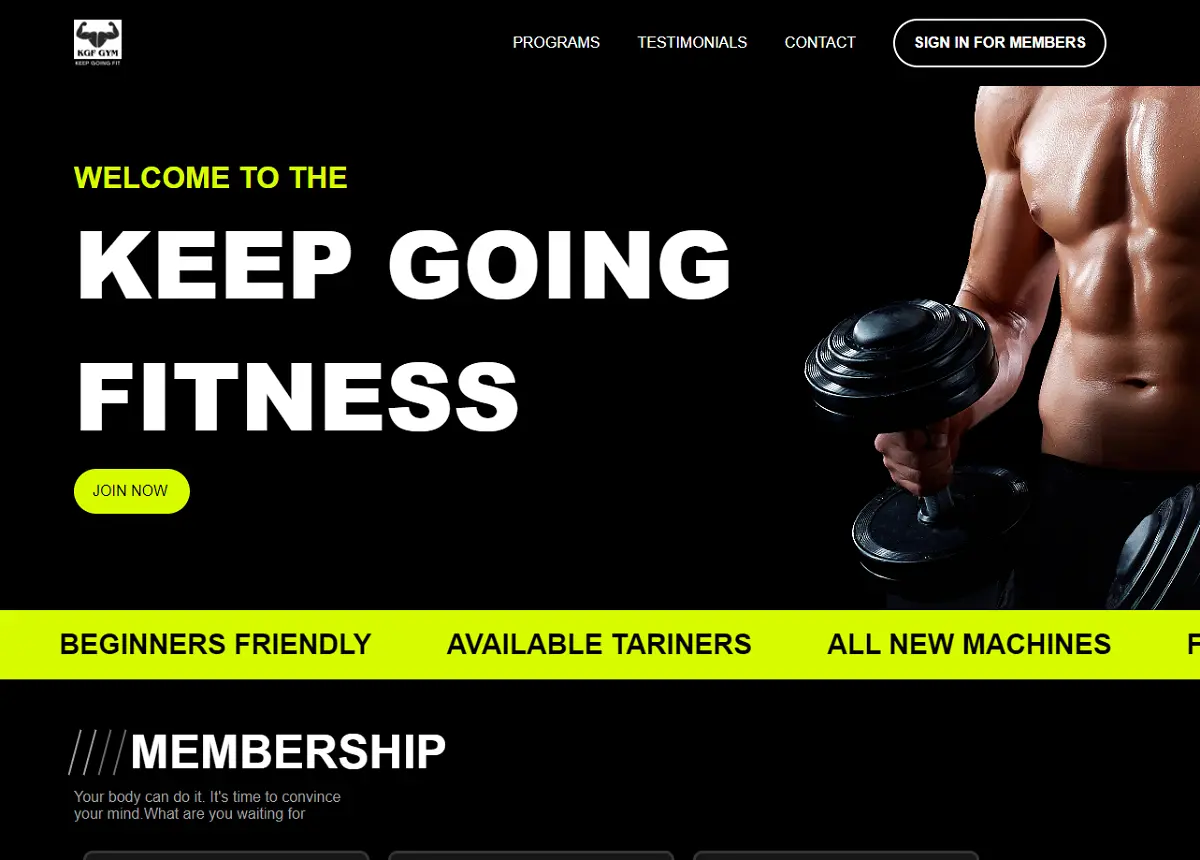
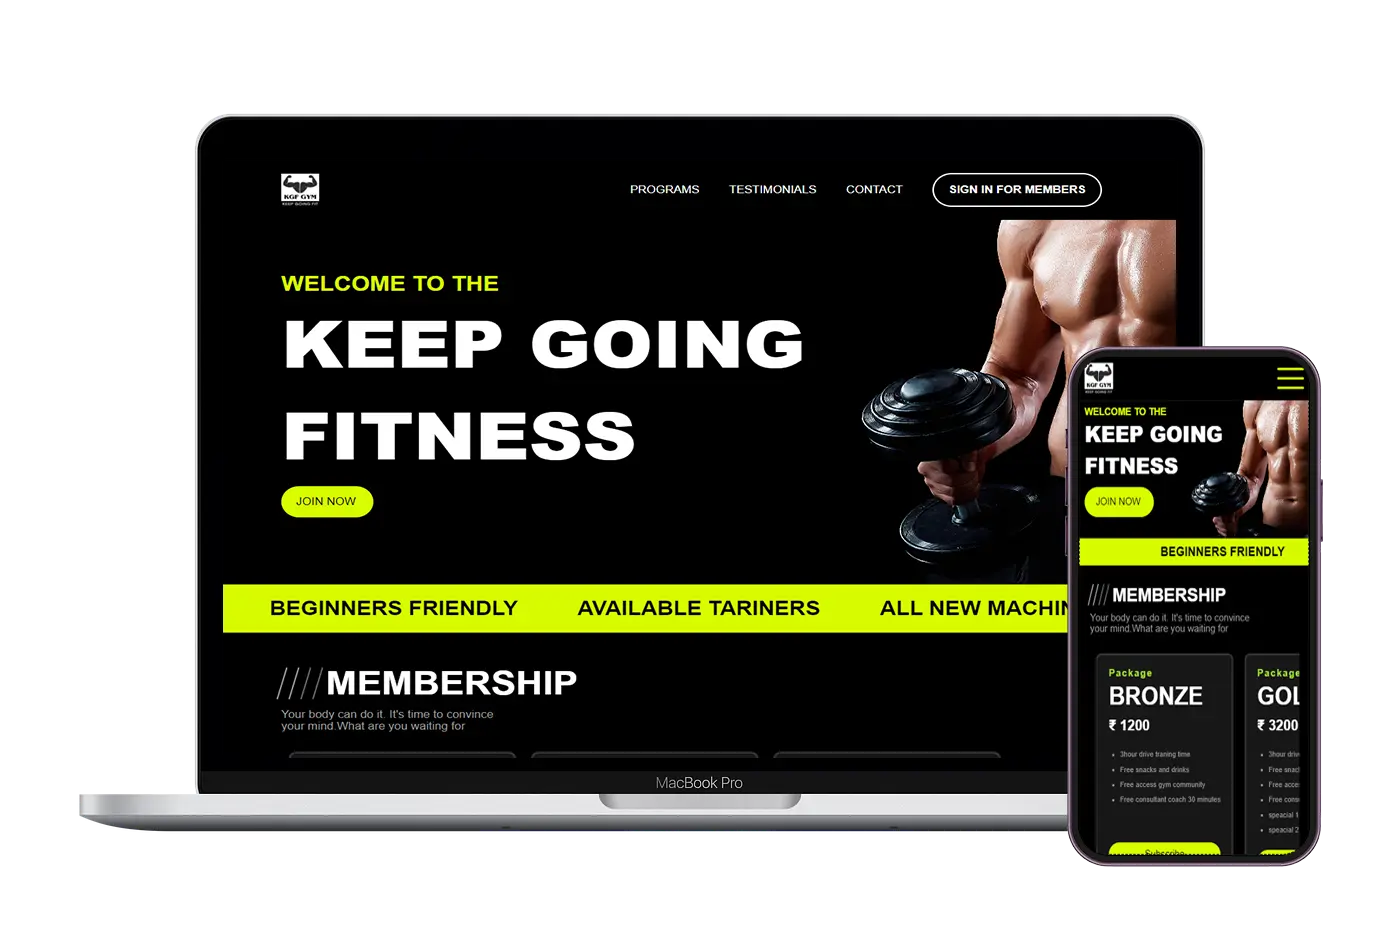
project images changed

diff --git a/src/components/myprojects/projectsData.js b/src/components/myprojects/projectsData.js
@@ -1,29 +1,24 @@
 import ytdownload from "../../assets/ytdownload.webp";
-import ytdownloadPhone from "../../assets/ytdownload-phone.webp";
 import movie from "../../assets/movie.webp";
-import moviePhone from "../../assets/movie-phone.webp";
 import kgf from "../../assets/kgf.webp";
-import kgfPhone from "../../assets/kgf-phone.webp";
+
 const projects = [
   {
     title: "Youtube video Downloader",
     desc: "Lorem ipsum dolor sit amet consectetur adipisicing elit. Eum id, ut odio quae atque maxime nobis possimus recusandae facere repellat hic illum corporis, maiores temporibus minus nisi mollitia nostrum sed?",
-    desktopImage: ytdownload,
-    mobileImage: ytdownloadPhone,
+    image: ytdownload,
     link: "https://yt-download-ayan.netlify.app/",
   },
   {
     title: "Movie serch",
     desc: "Lorem ipsum dolor sit amet consectetur adipisicing elit. Eum id, ut odio quae atque maxime nobis possimus recusandae facere repellat hic illum corporis, maiores temporibus minus nisi mollitia nostrum sed?",
-    desktopImage: movie,
-    mobileImage: moviePhone,
+    image: movie,
     link: "https://ayan-movie.netlify.app/",
   },
   {
     title: "GYM",
     desc: "Lorem ipsum dolor sit amet consectetur adipisicing elit. Eum id, ut odio quae atque maxime nobis possimus recusandae facere repellat hic illum corporis, maiores temporibus minus nisi mollitia nostrum sed?",
-    desktopImage: kgf,
-    mobileImage: kgfPhone,
+    image: kgf,
     link: "https://kgf.netlify.app/",
   },
 ];

diff --git a/src/components/projectCard/ProjectCard.jsx b/src/components/projectCard/ProjectCard.jsx
@@ -8,31 +8,15 @@ import mobile from "../../assets/mobile.png";
 function ProjectCard({ project }) {
   return (
     <div className="Project-card">
-      <div className="frame">
-        <div
-          className="desktop-frame"
-          style={{
-            backgroundImage: `url(${desktopFrame})`,
-            backgroundRepeat: "no-repeat",
-            backgroundSize: "contain",
-            backgroundPosition: "center",
-            width: "100%",
-          }}
-        >
-          <img id="desktop-image" src={project?.desktopImage} alt="desktop" />
-        </div>
-        <div
-          className="mobile-frame"
-          style={{
-            backgroundImage: `url(${phoneFrame})`,
-            backgroundRepeat: "no-repeat",
-            backgroundSize: "contain",
-            backgroundPosition: "center",
-          }}
-        >
-          <img id="mobile-image" src={project?.mobileImage} alt="mobile" />
-        </div>
-      </div>
+      <div
+        className="frame"
+        style={{
+          backgroundImage: `url(${project.image})`,
+          backgroundRepeat: "no-repeat",
+          backgroundSize: "contain",
+          backgroundPosition: "center",
+        }}
+      ></div>
       <div className="about-project">
         <h2>{project?.title}</h2>
         <p>{project?.desc}</p>

diff --git a/src/components/projectCard/ProjectCard.css b/src/components/projectCard/ProjectCard.css
@@ -8,34 +8,8 @@
   margin: 10px;
 }
 .frame {
+  box-sizing: border-box;
   height: 16.8rem;
-}
-.desktop-frame {
-  position: relative;
-  height: 15.6rem;
-  width: 18.7rem;
-}
-#desktop-image {
-  height: 10.3rem;
-  width: 260px;
-  position: relative;
-  top: 2.7rem;
-  left: 2.8rem;
-}
-.mobile-frame {
-  position: relative;
-  height: 10.6rem;
-  width: 5.6rem;
-  top: -10rem;
-  left: 16.2rem;
-}
-#mobile-image {
-  height: 8.2rem;
-  width: 3.8rem;
-  position: relative;
-  top: 1.2rem;
-  left: 0.9rem;
-  border-radius: 0.5rem;
 }
 
 .Project-card > .about-project {
@@ -48,26 +22,4 @@
 }
 .Project-card > .about-project > h2 {
   padding: 1rem 0;
-}
-
-@media only screen and (max-width: 600px) {
-  #desktop-image {
-    height: 7rem;
-    width: 10.8rem;
-    top: 4.2rem;
-    left: 1.8rem;
-  }
-  .mobile-frame {
-    height: 8rem;
-    width: 5.6rem;
-    top: -10rem;
-    left: 9.5rem;
-  }
-  #mobile-image {
-    height: 6.6rem;
-    width: 3.1rem;
-    top: 0.7rem;
-    left: 1.26rem;
-    border-radius: 0.5rem;
-  }
 }
